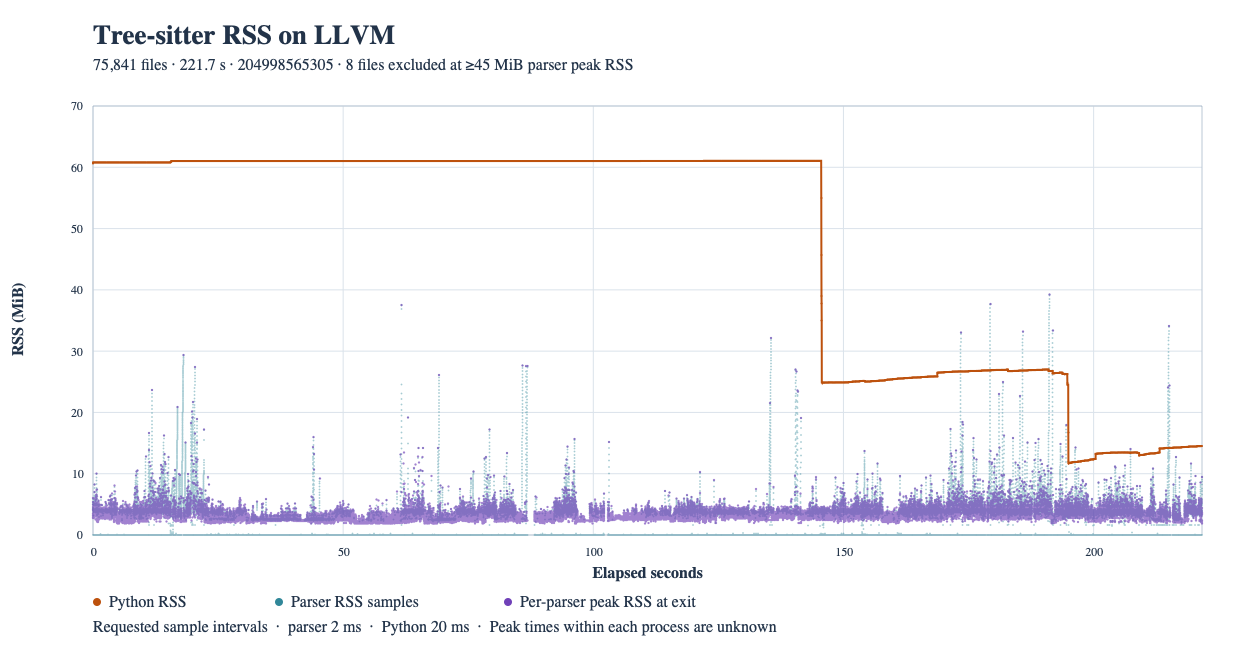
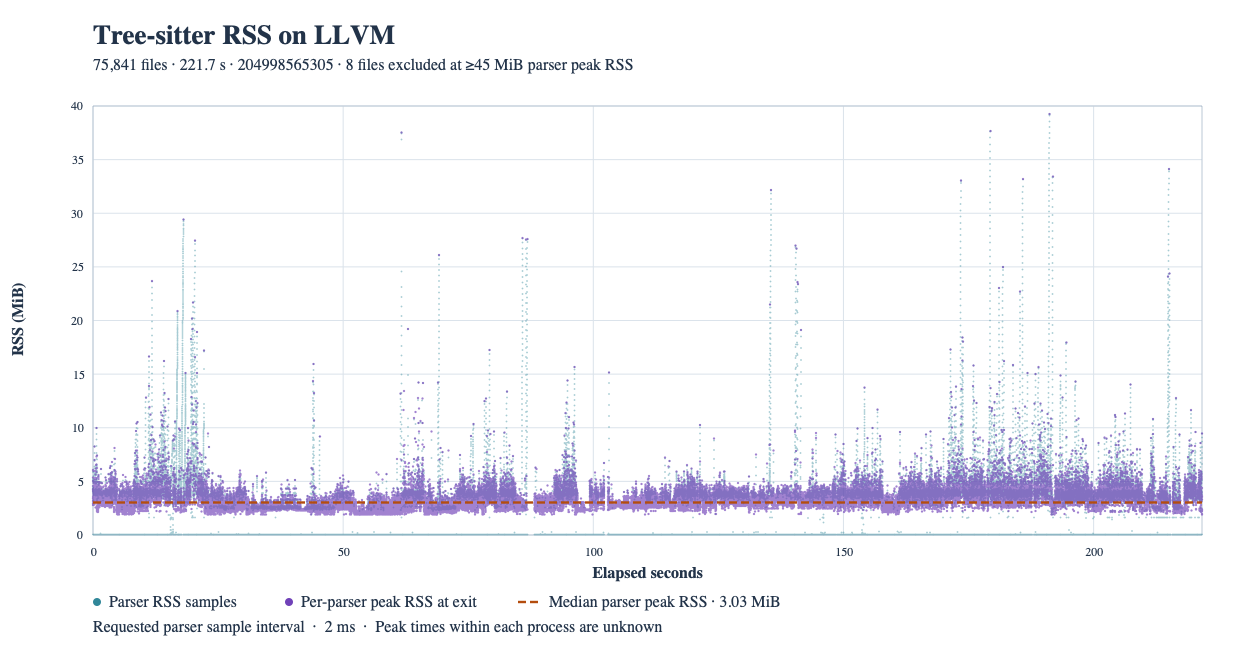
Show median parser peak RSS in timeline pictures

diff --git a/plot_rss.py b/plot_rss.py
@@ -3,15 +3,27 @@
 
 import argparse
 import csv
+from dataclasses import dataclass
 from html import escape
 import json
 import math
 from pathlib import Path
+from statistics import median
 
 
 MIB = 1024 ** 2
 WIDTH, HEIGHT = 1240, 650
 LEFT, RIGHT, TOP, BOTTOM = 93, 1202, 106, 535
+MEDIAN_COLOR = "#b44d0e"
+
+
+@dataclass
+class PlotRun:
+    start: float
+    end: float
+    label: str
+    samples: list
+    peaks: list
 
 
 def tick_spacing(target):
@@ -27,22 +39,20 @@ def time_ticks(start, end):
 
 
 def read_points(directory, start, end):
-    python = []
     samples = []
     peaks = []
     with (directory / "rss.csv").open(newline="") as source:
         for row in csv.DictReader(source):
             elapsed = float(row["elapsed_s"])
-            if start <= elapsed <= end:
-                points = python if row["process"] == "python" else samples
-                points.append((elapsed, int(row["rss_bytes"])))
+            if row["process"] == "parser" and start <= elapsed <= end:
+                samples.append((elapsed, int(row["rss_bytes"])))
     with (directory / "files.csv").open(newline="") as source:
         for row in csv.DictReader(source):
             elapsed = float(row["end_s"])
             peak = int(row["peak_rss_bytes"])
             if start <= elapsed <= end and peak:
                 peaks.append((elapsed, peak))
-    return python, samples, peaks
+    return samples, peaks
 
 
 def render(directory, output=None, start=0.0, end=None, *, linear=False):
@@ -51,10 +61,30 @@ def render(directory, output=None, start=0.0, end=None, *, linear=False):
     end = duration if end is None else end
     if not 0 <= start < end <= duration:
         raise ValueError(f"expected 0 <= start < end <= {duration:.9f} s")
-    python, samples, peaks = read_points(directory, start, end)
-    rss_values = [rss for series in (python, samples, peaks) for _, rss in series]
+    run = PlotRun(start, end, "", *read_points(directory, start, end))
+    subtitle = f"{summary['files']:,} files · {duration:.1f} s · {summary['head'][:12]}"
+    if "excluded_files" in summary:
+        subtitle += (
+            f" · {summary['excluded_files']} files excluded at "
+            f"≥{summary['excluded_parser_peak_at_least_mib']:g} MiB parser peak RSS"
+        )
+    else:
+        subtitle += f" · {summary['platform']} · one parser process at a time"
+    if "replacement_files" in summary:
+        subtitle += f" · {len(summary['replacement_files'])} shortened copies"
+    draw([run], summary, subtitle, output if output is not None else directory / "rss.svg",
+         linear=linear)
+
+
+def draw(runs, summary, subtitle, output, *, linear, title=None):
+    start, end = runs[0].start, runs[-1].end
+    comparison = len(runs) > 1
+    width, right = (1650, 1612) if comparison else (WIDTH, RIGHT)
+    rss_values = [rss for run in runs for series in (run.samples, run.peaks)
+                  for _, rss in series]
     if not rss_values:
         raise ValueError("there are no RSS measurements in this time window")
+    medians = [median(rss for _, rss in run.peaks) if run.peaks else None for run in runs]
     if linear:
         low = 0
         tick_step = tick_spacing(max(rss_values) / MIB / 8)
@@ -71,7 +101,7 @@ def render(directory, output=None, start=0.0, end=None, *, linear=False):
         coordinate = math.log2
 
     def x(elapsed):
-        return LEFT + (elapsed - start) * (RIGHT - LEFT) / (end - start)
+        return LEFT + (elapsed - start) * (right - LEFT) / (end - start)
 
     def y(rss_bytes):
         return BOTTOM - (coordinate(rss_bytes / MIB) - low) * (BOTTOM - TOP) / (high - low)
@@ -98,65 +128,80 @@ def render(directory, output=None, start=0.0, end=None, *, linear=False):
 
     axis_label = "RSS (MiB)" if linear else "RSS (MiB, log scale)"
     scale_description = "linear" if linear else "logarithmic"
-    subtitle = f"{summary['files']:,} files · {duration:.1f} s · {summary['head'][:12]}"
-    if "excluded_files" in summary:
-        subtitle += (
-            f" · {summary['excluded_files']} files excluded at "
-            f"≥{summary['excluded_parser_peak_at_least_mib']:g} MiB parser peak RSS"
-        )
-    else:
-        subtitle += f" · {summary['platform']} · one parser process at a time"
+    if title is None:
+        title = "Tree-sitter RSS by allocator on LLVM" if comparison else "Tree-sitter RSS on LLVM"
     svg = [
-        f'<svg xmlns="http://www.w3.org/2000/svg" width="{WIDTH}" height="{HEIGHT}" '
-        f'viewBox="0 0 {WIDTH} {HEIGHT}" role="img" aria-labelledby="title description">',
-        '<title id="title">Tree-sitter RSS on LLVM</title>',
-        '<desc id="description">RSS for the Python process and sequential native parser '
-        f'processes on a shared elapsed-time axis. RSS uses a {scale_description} axis.</desc>',
+        f'<svg xmlns="http://www.w3.org/2000/svg" width="{width}" height="{HEIGHT}" '
+        f'viewBox="0 0 {width} {HEIGHT}" role="img" aria-labelledby="title description">',
+        f'<title id="title">{escape(title)}</title>',
+        '<desc id="description">Live RSS and lifetime peak RSS for sequential parser processes. '
+        f'Each horizontal line shows the median parser peak for its run. RSS uses a {scale_description} axis.</desc>',
         '<style>text{font:14px Arial,Helvetica,sans-serif;fill:#223349}'
         '.title{font-size:27px;font-weight:680}.sub{fill:#4c5c70}'
         '.tick{font-size:12px;fill:#4c5c70}.axis{font-weight:600}</style>',
-        f'<rect width="{WIDTH}" height="{HEIGHT}" fill="white"/>',
-        label(LEFT, 44, "Tree-sitter RSS on LLVM", "title"),
-        label(LEFT, 70, subtitle, "sub"),
+        f'<rect width="{width}" height="{HEIGHT}" fill="white"/>',
+        label(LEFT, 38 if comparison else 44, title, "title"),
+        label(LEFT, 62 if comparison else 70, subtitle, "sub"),
     ]
+    if comparison:
+        for index, (run, middle) in enumerate(zip(runs, medians, strict=True)):
+            x1, x2 = x(run.start), x(run.end)
+            if index % 2 == 1:
+                svg.append(f'<rect x="{x1:.2f}" y="{TOP}" width="{x2 - x1:.2f}" '
+                           f'height="{BOTTOM - TOP}" fill="#f3f8fb"/>')
+            heading = run.label if middle is None else f"{run.label} · median {middle / MIB:.2f} MiB"
+            svg.append(label((x1 + x2) / 2, TOP - 10, heading, "axis", "middle"))
     for tick in rss_ticks:
         py = y(tick * MIB)
-        svg.append(gridline(LEFT, py, RIGHT, py))
+        svg.append(gridline(LEFT, py, right, py))
         svg.append(label(LEFT - 11, py + 4, f"{tick:g}", "tick", "end"))
     for elapsed in time_ticks(start, end):
         px = x(elapsed)
         svg.append(gridline(px, TOP, px, BOTTOM))
         svg.append(label(px, BOTTOM + 21, f"{elapsed:g}", "tick", "middle"))
     svg += [
-        f'<rect x="{LEFT}" y="{TOP}" width="{RIGHT - LEFT}" height="{BOTTOM - TOP}" '
+        f'<rect x="{LEFT}" y="{TOP}" width="{right - LEFT}" height="{BOTTOM - TOP}" '
         'fill="none" stroke="#bcc9d6"/>',
         '<text class="axis" transform="translate(23 320) rotate(-90)" text-anchor="middle">'
         f'{axis_label}</text>',
-        label((LEFT + RIGHT) / 2, BOTTOM + 43, "Elapsed seconds", "axis", "middle"),
-        markers(samples, "#318799", 0.43, 1.8),
-        markers(peaks, "#7041b8", 0.66, 2.3),
+        label((LEFT + right) / 2, BOTTOM + 43, "Elapsed seconds", "axis", "middle"),
     ]
-    if python:
-        path = " ".join(f"{x(t):.2f},{y(rss):.2f}" for t, rss in python)
+    for run, middle in zip(runs, medians, strict=True):
         svg += [
-            f'<polyline points="{path}" fill="none" stroke="#bd510d" stroke-width="2"/>',
-            markers(python, "#bd510d", 1, 2),
+            markers(run.samples, "#318799", 0.43, 1.8),
+            markers(run.peaks, "#7041b8", 0.66, 2.3),
         ]
+        if middle is not None:
+            svg.append(
+                f'<path class="median-line" d="M{x(run.start):.2f},{y(middle):.2f} '
+                f'H{x(run.end):.2f}" stroke="{MEDIAN_COLOR}" stroke-width="2.4" '
+                'stroke-dasharray="8 4" fill="none"/>'
+            )
+    for run in runs[1:]:
+        px = x(run.start)
+        svg.append(f'<path d="M{px:.2f},{TOP}V{BOTTOM}" stroke="#8294a8" '
+                   'stroke-width="1.3" stroke-dasharray="5 4"/>')
     for px, color, name in (
-        (LEFT, "#bd510d", "Python RSS"),
-        (LEFT + 182, "#318799", "Parser RSS samples"),
-        (LEFT + 411, "#7041b8", "Per-parser peak RSS at exit"),
+        (LEFT, "#318799", "Parser RSS samples"),
+        (LEFT + 192, "#7041b8", "Per-parser peak RSS at exit"),
     ):
         svg.append(f'<circle cx="{px + 4}" cy="602" r="4" fill="{color}"/>')
         svg.append(label(px + 16, 607, name))
+    if any(value is not None for value in medians):
+        px = LEFT + 425
+        svg.append(f'<path d="M{px},602h23" stroke="{MEDIAN_COLOR}" '
+                   'stroke-width="2.4" stroke-dasharray="8 4"/>')
+        median_label = "Median parser peak RSS"
+        if not comparison:
+            median_label += f" · {medians[0] / MIB:.2f} MiB"
+        svg.append(label(px + 31, 607, median_label))
     svg.append(label(
         LEFT, 632,
-        f"Requested sample intervals  ·  parser {summary['parser_interval_ms']:g} ms"
-        f"  ·  Python {summary['python_interval_ms']:g} ms  ·  Peak times within each process are unknown",
+        f"Requested parser sample interval  ·  {summary['parser_interval_ms']:g} ms"
+        "  ·  Peak times within each process are unknown",
         "sub",
     ))
     svg.append("</svg>")
-    output = output if output is not None else directory / "rss.svg"
     output.write_text("\n".join(svg) + "\n", encoding="utf-8")
     print(f"Wrote {output}", flush=True)
 

diff --git a/README.md b/README.md
@@ -61,7 +61,7 @@ See `CPP_EXTENSIONS` in `benchmark.py` for the full list.
 
 | File | Contents |
 | --- | --- |
-| `rss.svg` | One elapsed-time axis for both process types and a logarithmic RSS axis in MiB. Each child contributes its live samples and a lifetime peak at its exit time. Marks may overlap in the overview. |
+| `rss.svg` | One elapsed-time axis and a logarithmic RSS axis in MiB. The chart shows live parser samples, each child's lifetime peak at its exit time, and a dashed line for the median of those peaks. |
 | `rss.csv` | Timestamped RSS in bytes, PID, process type and file ID. |
 | `files.csv` | File ID, PID, path, grammar, start and end on the same clock, exit status, OS-reported lifetime peak RSS in bytes, and live sample count. File IDs distinguish processes even when the OS reuses PIDs. |
 | `summary.json` | Revision, timings, file counts, and maximum RSS. |
